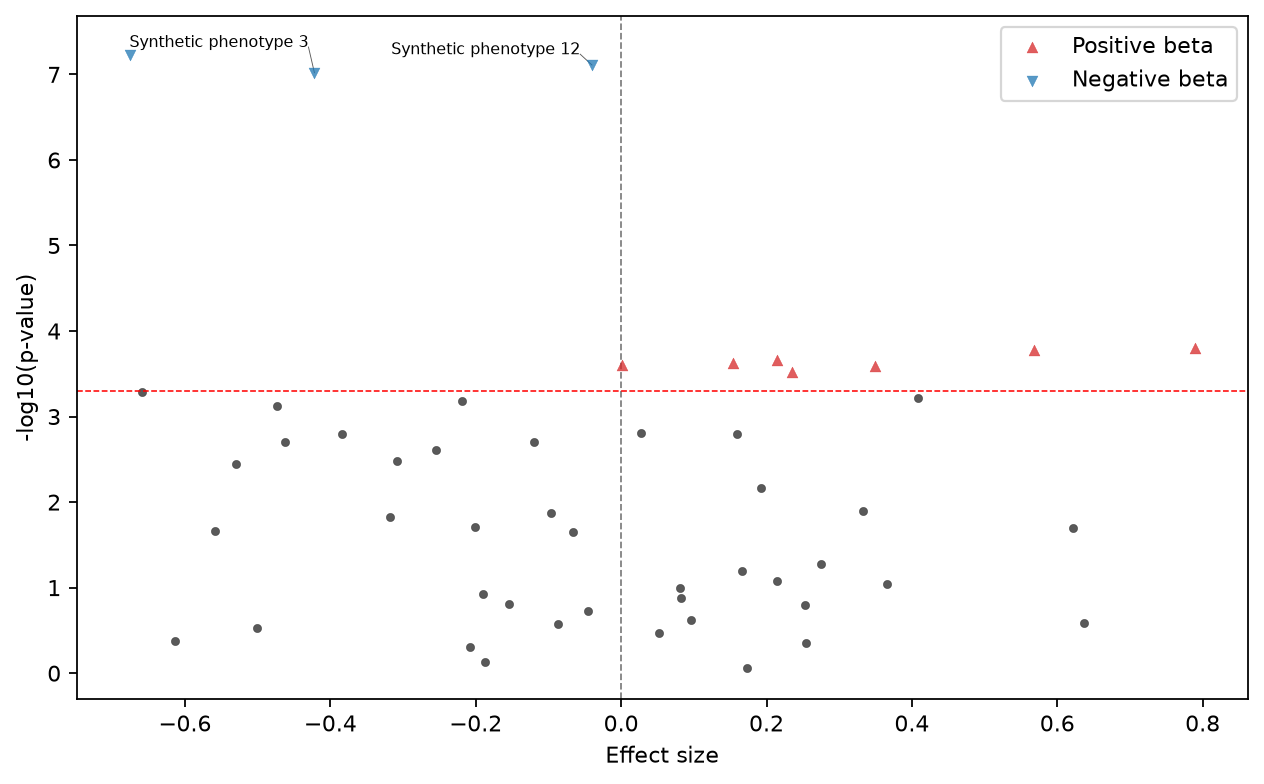
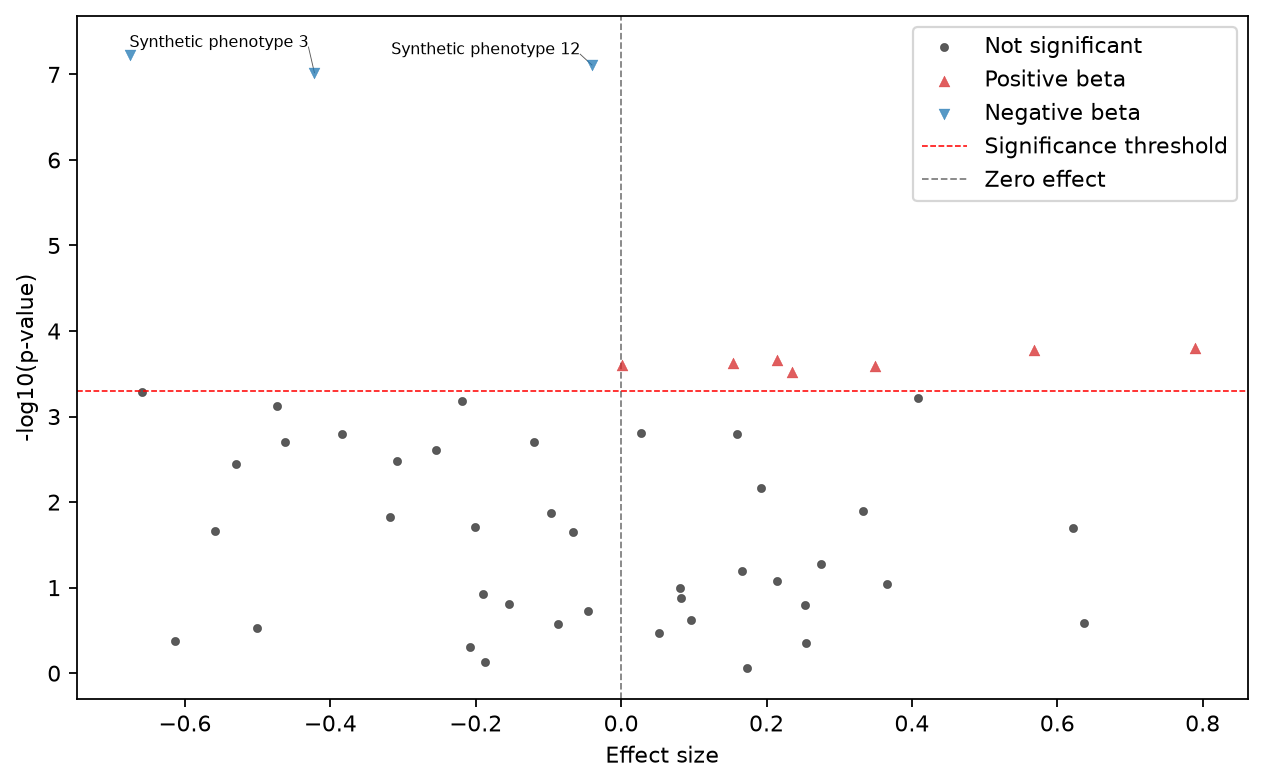
Label plot reference lines
Identify significance thresholds, zero effect, and non-significant points in plot legends and update the documentation gallery.

Copilot-Session: 1c26b52b-dae4-4c6b-90c3-48f3c834478a

Changed region(s): [[0.7405, 0.0306, 0.9873, 0.2449]]

diff --git a/docs/plotting.html b/docs/plotting.html
@@ -66,7 +66,7 @@ results = pype.add_phenotype_metadata(results, metadata)</code></pre>
           </figure>
           <figure>
             <a href="assets/volcano.png"><img loading="lazy" width="1264" height="784" src="assets/volcano.png" alt="PYPE volcano plot showing effect size and significance."></a>
-            <figcaption><strong>Volcano plot.</strong> Effect size is on the x-axis and significance is on the y-axis. <a class="full-resolution" href="assets/volcano.png">Open full-resolution image</a></figcaption>
+            <figcaption><strong>Volcano plot.</strong> Effect size is on the x-axis and significance is on the y-axis. The red horizontal line is the corrected significance threshold, and the gray vertical line marks zero effect. <a class="full-resolution" href="assets/volcano.png">Open full-resolution image</a></figcaption>
           </figure>
         </div>
         <p class="muted">Gallery data are synthetic and generated by <code>scripts/generate_docs_plots.py</code>.</p>

diff --git a/pype/plotting.py b/pype/plotting.py
@@ -213,7 +213,13 @@ def manhattan(results, output, alpha=0.05, correction="bonferroni", title=None, 
 
 	line_segments = []
 	if np.isfinite(significance):
-		ax.axhline(significance, color="red", linestyle="--", linewidth=0.7)
+		ax.axhline(
+			significance,
+			color="red",
+			linestyle="--",
+			linewidth=0.7,
+			label="Significance threshold",
+		)
 		line_segments.append(
 			(ax.get_xlim(), (significance, significance))
 		)
@@ -327,6 +333,7 @@ def volcano(results, output, alpha=0.05, correction="bonferroni", title=None, an
 			s=14,
 			alpha=0.65,
 			linewidths=0.2,
+			label="Not significant",
 		)
 		for mask, marker, color, label in [
 			(is_significant & (predictor_data["beta"] >= 0), "^", "tab:red", "Positive beta"),
@@ -358,7 +365,13 @@ def volcano(results, output, alpha=0.05, correction="bonferroni", title=None, an
 
 		line_segments = []
 		if np.isfinite(significance):
-			ax.axhline(significance, color="red", linestyle="--", linewidth=0.7)
+			ax.axhline(
+				significance,
+				color="red",
+				linestyle="--",
+				linewidth=0.7,
+				label="Significance threshold",
+			)
 			line_segments.append(
 				(ax.get_xlim(), (significance, significance))
 			)
@@ -368,6 +381,7 @@ def volcano(results, output, alpha=0.05, correction="bonferroni", title=None, an
 			linestyle="--",
 			linewidth=0.8,
 			zorder=0,
+			label="Zero effect",
 		)
 		line_segments.append(((0, 0), ax.get_ylim()))
 		ax.set_xlabel("Effect size")
